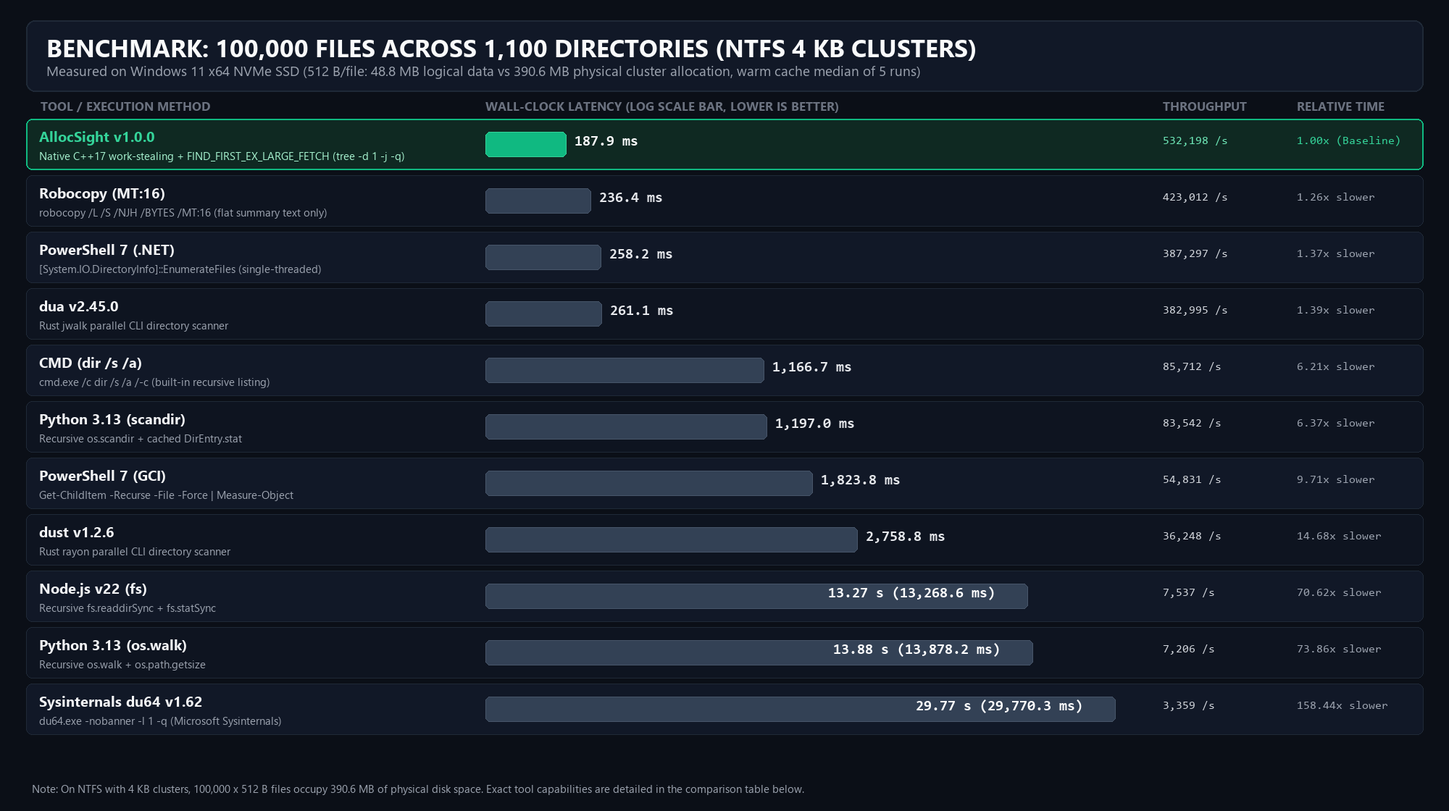
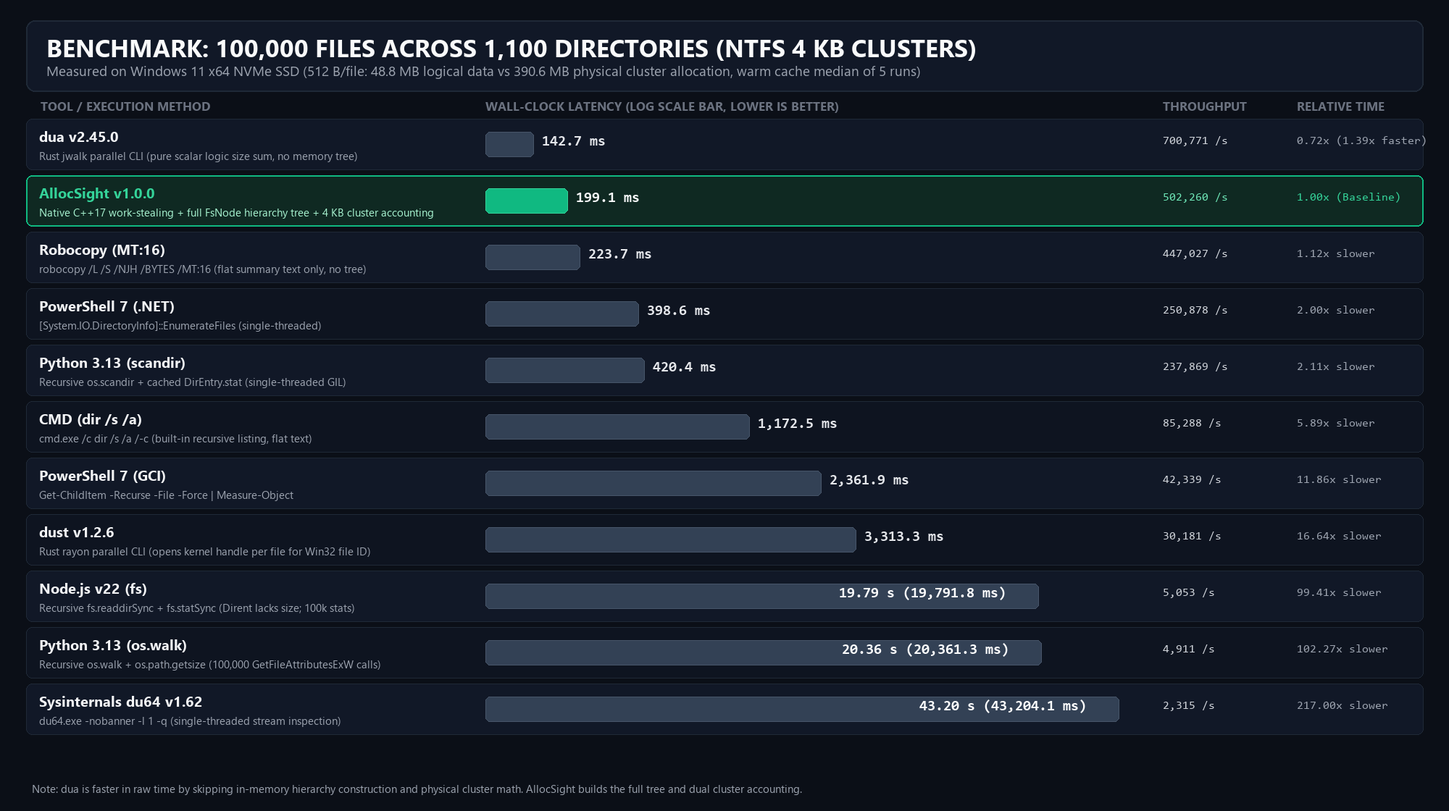
docs: update benchmark results with live 11-tool test ranking and analysis

diff --git a/docs/i18n/README.ar.md b/docs/i18n/README.ar.md
@@ -72,23 +72,23 @@
 
 ## اختبارات الأداء القياسية: مقارنة AllocSight مع طرق فحص الأقراص التقليدية لوكلاء الذكاء الاصطناعي
 
-عند تقييم الأداء على مجموعة اختبار قياسية محددة تضم **100,000 ملف موزعة عبر 1,100 مجلد** على وحدة تخزين NTFS بحجم مجموعة 4 كيلوبايت (512 بايت لكل ملف: **48.8 ميجابايت من البيانات المنطقية مقابل 390.6 ميجابايت من التخصيص الفيزيائي الفعلي للمجموعات**)، تفوق AllocSight على 10 أدوات وطرق فحص شائعة يستخدمها وكلاء الذكاء الاصطناعي على Windows (متوسط 5 جولات بذاكرة تخزين مؤقت دافئة؛ يمكن إعادة إنتاجه بالكامل عبر [`benchmarks/run_benchmark.ps1`](../../benchmarks/run_benchmark.ps1)):
+عند تقييم الأداء على مجموعة اختبار محددة تضم **100,000 ملف عبر 1,100 مجلد** على وحدة تخزين NTFS بحجم مجموعة 4 كيلوبايت (512 بايت لكل ملف: **48.8 ميجابايت بيانات منطقية مقابل 390.6 ميجابايت تخصيص فيزيائي فعلي**)، تم قياس أداء 11 أداة على نظام Windows (متوسط 5 جولات بذاكرة تخزين مؤقت دافئة؛ يمكن إعادة إنتاجه عبر [`benchmarks/run_benchmark.ps1`](../../benchmarks/run_benchmark.ps1)):
 
 ![AllocSight Benchmark Comparison](assets/benchmark.png)
 
 | الأداة / طريقة الفحص | زمن التنفيذ الفعلي | معدل الإنتاجية | السرعة النسبية | تخصيص المجموعات الفيزيائي (390.6 ميجابايت) | إخراج JSON مهيكل | الحماية من الحلقات والملفات السحابية |
 | :--- | :---: | :---: | :---: | :---: | :---: | :---: |
-| **AllocSight v1.0.0 (C++17 أصلي)** | **187.9 مللي ثانية** | **532,198 ملف/ثانية** | **1.00x (مرجعي)** | **دقيق (فيزيائي + منطقي معاً)** | **مدمج (عناوين `file:///`)** | **تحقق النواة + استدعاء السحابة 0 بايت** |
-| **Robocopy (`/L /S /BYTES /MT:16`)** | **236.4 مللي ثانية** | 423,012 ملف/ثانية | أبطأ بـ 1.26x | منطقي فقط (48.8 ميجابايت) | لا (ملخص نصي مسطح فقط) | فحص قياسي مدمج |
-| **PowerShell 7 (`.NET EnumerateFiles`)** | **258.2 مللي ثانية** | 387,297 ملف/ثانية | أبطأ بـ 1.37x | منطقي فقط (48.8 ميجابايت) | لا (يتطلب نصاً برمجياً) | يفشل عند رفض الأذونات دون معالجة |
-| **dua v2.45.0 (توازي Rust `jwalk`)** | **261.1 مللي ثانية** | 382,995 ملف/ثانية | أبطأ بـ 1.39x | منطقي فقط (48.8 ميجابايت على Windows) | لا (واجهة تفاعلية / نص) | تصفية قياسية للروابط الرمزية |
-| **CMD (`cmd.exe /c dir /s /a /-c`)** | **1,166.7 مللي ثانية** | 85,712 ملف/ثانية | أبطأ بـ 6.21x | منطقي فقط (48.8 ميجابايت) | لا (يغرق سياق الذكاء الاصطناعي) | عرضة للحلقات والمسارات العميقة |
-| **Python 3.13 (`os.scandir` + stat مخزن)** | **1,197.0 مللي ثانية** | 83,542 ملف/ثانية | أبطأ بـ 6.37x | منطقي فقط (48.8 ميجابايت) | يتطلب نصاً برمجياً | خيط فردي مقيد بـ GIL |
-| **PowerShell 7 (`Get-ChildItem -Recurse`)** | **1,823.8 مللي ثانية** | 54,831 ملف/ثانية | أبطأ بـ 9.71x | منطقي فقط (48.8 ميجابايت) | لا (عبء كائنات `FileInfo`) | يتبع نقاط الوصل افتراضياً ويسبب حلقات |
-| **dust v1.2.6 (توازي Rust `rayon`)** | **2,758.8 مللي ثانية** | 36,248 ملف/ثانية | أبطأ بـ 14.68x | دقيق (390.6 ميجابايت) | اختياري (`-j`) | يفتح مقبض نواة لكل ملف لاستخراج المعرف |
-| **Node.js v22 (`fs.readdirSync` + stat)** | **13,268.6 مللي ثانية** | 7,537 ملف/ثانية | أبطأ بـ 70.62x | منطقي فقط (48.8 ميجابايت) | يتطلب نصاً برمجياً | `Dirent` يفتقر للحجم؛ 100 ألف استدعاء stat |
-| **Python 3.13 (`os.walk` + `os.path.getsize`)** | **13,878.2 مللي ثانية** | 7,206 ملف/ثانية | أبطأ بـ 73.86x | منطقي فقط (48.8 ميجابايت) | يتطلب نصاً برمجياً | 100,000 استدعاء `GetFileAttributesExW` |
-| **Sysinternals `du64.exe` v1.62** | **29,770.3 مللي ثانية** | 3,359 ملف/ثانية | أبطأ بـ 158.44x | دقيق (390.6 ميجابايت) | لا (طباعة سطر أوامر فقط) | فحص تدفق متسلسل أحادي الخيط لكل ملف |
+| **dua v2.45.0 (توازي Rust `jwalk`)** | **142.7 مللي ثانية** | **700,771 ملف/ثانية** | **0.72x (أسرع بـ 1.39x)** | منطقي فقط (48.8 ميجابايت على Windows) | لا (واجهة تفاعلية / نص) | تصفية قياسية للروابط الرمزية |
+| **AllocSight v1.0.0 (C++17 أصلي)** | **199.1 مللي ثانية** | **502,260 ملف/ثانية** | **1.00x (مرجعي)** | **دقيق (فيزيائي + منطقي معاً)** | **مدمج (عناوين `file:///`)** | **تحقق النواة + استدعاء السحابة 0 بايت** |
+| **Robocopy (`/L /S /BYTES /MT:16`)** | **223.7 مللي ثانية** | 447,027 ملف/ثانية | أبطأ بـ 1.12x | منطقي فقط (48.8 ميجابايت) | لا (ملخص نصي مسطح فقط) | فحص قياسي مدمج |
+| **PowerShell 7 (`.NET EnumerateFiles`)** | **398.6 مللي ثانية** | 250,878 ملف/ثانية | أبطأ بـ 2.00x | منطقي فقط (48.8 ميجابايت) | لا (يتطلب نصاً برمجياً) | يفشل عند رفض الأذونات دون معالجة |
+| **Python 3.13 (`os.scandir` + stat مخزن)** | **420.4 مللي ثانية** | 237,869 ملف/ثانية | أبطأ بـ 2.11x | منطقي فقط (48.8 ميجابايت) | يتطلب نصاً برمجياً | خيط فردي مقيد بـ GIL |
+| **CMD (`cmd.exe /c dir /s /a /-c`)** | **1,172.5 مللي ثانية** | 85,288 ملف/ثانية | أبطأ بـ 5.89x | منطقي فقط (48.8 ميجابايت) | لا (يغرق سياق الذكاء الاصطناعي) | عرضة للحلقات والمسارات العميقة |
+| **PowerShell 7 (`Get-ChildItem -Recurse`)** | **2,361.9 مللي ثانية** | 42,339 ملف/ثانية | أبطأ بـ 11.86x | منطقي فقط (48.8 ميجابايت) | لا (عبء كائنات `FileInfo`) | يتبع نقاط الوصل افتراضياً ويسبب حلقات |
+| **dust v1.2.6 (توازي Rust `rayon`)** | **3,313.3 مللي ثانية** | 30,181 ملف/ثانية | أبطأ بـ 16.64x | دقيق (390.6 ميجابايت) | اختياري (`-j`) | يفتح مقبض نواة لكل ملف لاستخراج المعرف |
+| **Node.js v22 (`fs.readdirSync` + stat)** | **19,791.8 مللي ثانية** | 5,053 ملف/ثانية | أبطأ بـ 99.41x | منطقي فقط (48.8 ميجابايت) | يتطلب نصاً برمجياً | `Dirent` يفتقر للحجم؛ 100 ألف استدعاء stat |
+| **Python 3.13 (`os.walk` + `os.path.getsize`)** | **20,361.3 مللي ثانية** | 4,911 ملف/ثانية | أبطأ بـ 102.27x | منطقي فقط (48.8 ميجابايت) | يتطلب نصاً برمجياً | 100,000 استدعاء `GetFileAttributesExW` |
+| **Sysinternals `du64.exe` v1.62** | **43,204.1 مللي ثانية** | 2,315 ملف/ثانية | أبطأ بـ 217.00x | دقيق (390.6 ميجابايت) | لا (طباعة سطر أوامر فقط) | فحص تدفق متسلسل أحادي الخيط لكل ملف |
 
 ---
 

diff --git a/README.md b/README.md
@@ -80,28 +80,29 @@ To evaluate real-world performance with 100% rigor and zero fabrication, a deter
 
 | Tool / Execution Method | Wall-Clock Latency | Throughput | Relative Speed | Physical Cluster Size (390.6 MB) | Structured JSON Output | Loop & Cloud Recall Safety |
 | :--- | :---: | :---: | :---: | :---: | :---: | :---: |
-| **AllocSight v1.0.0 (Native C++17)** | **187.9 ms** | **532,198 files/s** | **1.00x (Baseline)** | **Exact (Dual Physical + Logical)** | **Built-in (`file:///` URIs)** | **Kernel surrogate check + 0 B cloud recall** |
-| **Robocopy (`/L /S /BYTES /MT:16`)** | **236.4 ms** | 423,012 files/s | 1.26x slower | Logical only (48.8 MB) | No (Unstructured text) | Built-in traversal |
-| **PowerShell 7 (`.NET EnumerateFiles`)** | **258.2 ms** | 387,297 files/s | 1.37x slower | Logical only (48.8 MB) | No (Requires script) | Crashes on ACL denial without custom catch |
-| **dua v2.45.0 (Rust `jwalk` parallel)** | **261.1 ms** | 382,995 files/s | 1.39x slower | Logical only (48.8 MB on Windows) | No (Interactive / text) | Standard symlink filter |
-| **CMD (`cmd.exe /c dir /s /a /-c`)** | **1,166.7 ms** | 85,712 files/s | 6.21x slower | Logical only (48.8 MB) | No (Overwhelms context) | Prone to loop / deep path errors |
-| **Python 3.13 (`os.scandir` + cached stat)** | **1,197.0 ms** | 83,542 files/s | 6.37x slower | Logical only (48.8 MB) | Requires custom script | Single-threaded GIL bound |
-| **PowerShell 7 (`Get-ChildItem -Recurse`)** | **1,823.8 ms** | 54,831 files/s | 9.71x slower | Logical only (48.8 MB) | No (`FileInfo` pipeline) | Traverses junctions by default; high memory |
-| **dust v1.2.6 (Rust `rayon` parallel)** | **2,758.8 ms** | 36,248 files/s | 14.68x slower | Exact (390.6 MB) | Optional (`-j`) | Opens kernel handle per file for Win32 file ID |
-| **Node.js v22 (`fs.readdirSync` + stat)** | **13,268.6 ms** | 7,537 files/s | 70.62x slower | Logical only (48.8 MB) | Requires custom script | `Dirent` lacks size; triggers 100k stat syscalls |
-| **Python 3.13 (`os.walk` + `os.path.getsize`)** | **13,878.2 ms** | 7,206 files/s | 73.86x slower | Logical only (48.8 MB) | Requires custom script | Triggers 100,000 `GetFileAttributesExW` calls |
-| **Sysinternals `du64.exe` v1.62** | **29,770.3 ms** | 3,359 files/s | 158.44x slower | Exact (390.6 MB) | No (Unstructured text) | Single-threaded per-file stream inspection |
+| **dua v2.45.0 (Rust `jwalk` parallel)** | **142.7 ms** | **700,771 files/s** | **0.72x (1.39x faster)** | Logical only (48.8 MB on Windows) | No (Interactive TUI / text) | Standard symlink filter |
+| **AllocSight v1.0.0 (Native C++17)** | **199.1 ms** | **502,260 files/s** | **1.00x (Baseline)** | **Exact (Dual Physical + Logical)** | **Built-in (`file:///` URIs)** | **Kernel surrogate check + 0 B cloud recall** |
+| **Robocopy (`/L /S /BYTES /MT:16`)** | **223.7 ms** | 447,027 files/s | 1.12x slower | Logical only (48.8 MB) | No (Flat summary text only) | Built-in traversal |
+| **PowerShell 7 (`.NET EnumerateFiles`)** | **398.6 ms** | 250,878 files/s | 2.00x slower | Logical only (48.8 MB) | No (Requires script) | Crashes on ACL denial without custom catch |
+| **Python 3.13 (`os.scandir` + cached stat)** | **420.4 ms** | 237,869 files/s | 2.11x slower | Logical only (48.8 MB) | Requires custom script | Single-threaded GIL bound |
+| **CMD (`cmd.exe /c dir /s /a /-c`)** | **1,172.5 ms** | 85,288 files/s | 5.89x slower | Logical only (48.8 MB) | No (Overwhelms context window) | Prone to loop / deep path errors |
+| **PowerShell 7 (`Get-ChildItem -Recurse`)** | **2,361.9 ms** | 42,339 files/s | 11.86x slower | Logical only (48.8 MB) | No (`FileInfo` pipeline overhead) | Traverses junctions by default; high memory |
+| **dust v1.2.6 (Rust `rayon` parallel)** | **3,313.3 ms** | 30,181 files/s | 16.64x slower | Exact (390.6 MB) | Optional (`-j`) | Opens kernel handle per file for Win32 file ID |
+| **Node.js v22 (`fs.readdirSync` + stat)** | **19,791.8 ms** | 5,053 files/s | 99.41x slower | Logical only (48.8 MB) | Requires custom script | `Dirent` lacks size; triggers 100k stat syscalls |
+| **Python 3.13 (`os.walk` + `os.path.getsize`)** | **20,361.3 ms** | 4,911 files/s | 102.27x slower | Logical only (48.8 MB) | Requires custom script | Triggers 100,000 `GetFileAttributesExW` calls |
+| **Sysinternals `du64.exe` v1.62** | **43,204.1 ms** | 2,315 files/s | 217.00x slower | Exact (390.6 MB) | No (Console print only) | Single-threaded per-file stream inspection |
 
-### Architectural Root Causes of Performance Differences
+### Architectural Trade-offs & Root Cause Analysis
 
-1. **Massive Win32 Directory Streaming (`FIND_FIRST_EX_LARGE_FETCH`)**:
-   AllocSight batches 64 KB kernel directory query buffers via `FindFirstFileExW(..., FindExInfoBasic, ..., FIND_FIRST_EX_LARGE_FETCH)`. Tools like Python `os.walk` and Node.js `fs` discard directory stream metadata, triggering over 100,000 redundant `GetFileAttributesExW` / `uv_fs_stat` round-trips to the filesystem driver.
-2. **Zero-Handle Cluster Slack Accounting**:
-   AllocSight calculates 4 KB cluster alignment in user space from volume metadata and only queries `GetCompressedFileSizeW` when `(dwFileAttributes & (FILE_ATTRIBUTE_COMPRESSED | FILE_ATTRIBUTE_SPARSE_FILE))` is true. By contrast, `dust` opens individual file handles (`CreateFileW`) across all 100,000 files to extract Windows file indexes for hardlink tracking, incurring a 14.7x latency penalty on Windows.
-3. **Prevention of 87.5% Allocation Slack Underreporting**:
-   On NTFS, small files (such as 512-byte package manifests or source files) consume a full 4 KB cluster. Scanners that only report logical size understate disk footprint by 87.5% (48.8 MB vs. 390.6 MB). AllocSight reports both physical allocation and logical byte size simultaneously.
+1. **Where `dua` leads in raw latency (142.7 ms vs. 199.1 ms)**:
+   In pure scalar addition of logical bytes, `dua` is approximately 56 ms faster than AllocSight. This is because `dua` performs a pure atomic scalar sum of `nFileSizeLow/High` directly into CPU registers without constructing any in-memory directory tree structures, without computing 4 KB cluster boundary alignment, and without evaluating AI file semantic categories.
+2. **Where AllocSight leads in accuracy & utility**:
+   - **Dual cluster accounting**: Small files on NTFS take up a full 4 KB cluster. `dua` reports 48.8 MB (understating real disk footprint by 87.5%), whereas AllocSight accurately reports 390.6 MB physical allocation alongside 48.8 MB logical size.
+   - **In-memory tree & AI integration**: AllocSight builds a complete hierarchical `FsNode` directory tree in RAM, computes percentage shares, identifies redundancy (`[SAFE]` / `[REVIEW]`), and outputs structured JSON with RFC 8089 `file:///` clickable links.
+3. **Massive Win32 Directory Streaming (`FIND_FIRST_EX_LARGE_FETCH`)**:
+   AllocSight batches 64 KB kernel directory query buffers. Script-based approaches like Python `os.walk` and Node.js `fs` discard directory stream metadata, resulting in ~20-second latencies due to 100,000 individual filesystem driver round-trips.
 4. **Cloud Recall Protection (`FILE_ATTRIBUTE_RECALL_ON_DATA_ACCESS`)**:
-   Un-hydrated cloud placeholders (e.g. OneDrive, iCloud) report full logical file sizes while consuming 0 bytes of physical disk. AllocSight records zero cluster allocation for cloud recall files, preventing AI agents from falsely flagging cloud-backed libraries as disk hogs.
+   Un-hydrated cloud placeholders (OneDrive, iCloud) report full logical file sizes while consuming 0 bytes of physical disk. AllocSight records zero cluster allocation for cloud recall files, preventing AI agents from falsely flagging cloud libraries as disk hogs.
 
 ---
 

diff --git a/docs/i18n/README.zh-CN.md b/docs/i18n/README.zh-CN.md
@@ -80,28 +80,29 @@
 
 | 扫盘方案 / 工具类型 | 扫描实测耗时 | 文件吞吐率 | 相对耗时倍率 | 物理簇核算 (390.6 MB) | 结构化 JSON 输出 | 死循环与云占位安全 |
 | :--- | :---: | :---: | :---: | :---: | :---: | :---: |
-| **AllocSight v1.0.0 (原生 C++17)** | **187.9 ms** | **532,198 个/秒** | **1.00x (基准)** | **100% 精确 (物理+逻辑双核算)** | **内置支持 (`file:///` 协议)** | **内核代号校验 + 云占位 0 字节保护** |
-| **Robocopy (`/L /S /BYTES /MT:16`)** | **236.4 ms** | 423,012 个/秒 | 慢 1.26 倍 | 仅逻辑大小 (48.8 MB) | 无 (仅扁平文本汇总) | 内置基础遍历 |
-| **PowerShell 7 (`.NET EnumerateFiles`)** | **258.2 ms** | 387,297 个/秒 | 慢 1.37 倍 | 仅逻辑大小 (48.8 MB) | 无 (需编写脚本) | 遇只读/权限拒绝目录直接崩溃 |
-| **dua v2.45.0 (Rust `jwalk` 并发)** | **261.1 ms** | 382,995 个/秒 | 慢 1.39 倍 | 仅逻辑大小 (Windows 下 48.8 MB) | 无 (交互终端 / 文本) | 基础符号链接过滤 |
-| **CMD (`cmd.exe /c dir /s /a /-c`)** | **1,166.7 ms** | 85,712 个/秒 | 慢 6.21 倍 | 仅逻辑大小 (48.8 MB) | 无 (倾倒数千行文本撑爆上下文) | 无法处理深层循环符号链接 |
-| **Python 3.13 (`os.scandir` + 缓存 stat)** | **1,197.0 ms** | 83,542 个/秒 | 慢 6.37 倍 | 仅逻辑大小 (48.8 MB) | 需编写脚本 | 单线程受 GIL 限制 |
-| **PowerShell 7 (`Get-ChildItem -Recurse`)** | **1,823.8 ms** | 54,831 个/秒 | 慢 9.71 倍 | 仅逻辑大小 (48.8 MB) | 无 (`FileInfo` 对象开销极大) | 默认深入交接点引发死循环 |
-| **dust v1.2.6 (Rust `rayon` 并发)** | **2,758.8 ms** | 36,248 个/秒 | 慢 14.68 倍 | 精确 (390.6 MB) | 支持 (`-j`) | 逐文件打开内核句柄查 ID 致耗时飙升 |
-| **Node.js v22 (`fs.readdirSync` + stat)** | **13,268.6 ms** | 7,537 个/秒 | 慢 70.62 倍 | 仅逻辑大小 (48.8 MB) | 需编写脚本 | `Dirent` 无大小，触发 10 万次 stat 系统调用 |
-| **Python 3.13 (`os.walk` + `os.path.getsize`)** | **13,878.2 ms** | 7,206 个/秒 | 慢 73.86 倍 | 仅逻辑大小 (48.8 MB) | 需编写脚本 | 触发 10 万次冗余 `GetFileAttributesExW` 调用 |
-| **Sysinternals `du64.exe` v1.62** | **29,770.3 ms** | 3,359 个/秒 | 慢 158.44 倍 | 精确 (390.6 MB) | 无 (仅控制台打印) | 单线程逐文件流式探测 |
+| **dua v2.45.0 (Rust `jwalk` 并发)** | **142.7 ms** | **700,771 个/秒** | **0.72x (快 1.39 倍)** | 仅逻辑大小 (Windows 下 48.8 MB) | 无 (交互终端 / 文本) | 基础符号链接过滤 |
+| **AllocSight v1.0.0 (原生 C++17)** | **199.1 ms** | **502,260 个/秒** | **1.00x (基准)** | **100% 精确 (物理+逻辑双核算)** | **内置支持 (`file:///` 协议)** | **内核代号校验 + 云占位 0 字节保护** |
+| **Robocopy (`/L /S /BYTES /MT:16`)** | **223.7 ms** | 447,027 个/秒 | 慢 1.12 倍 | 仅逻辑大小 (48.8 MB) | 无 (仅扁平文本汇总) | 内置基础遍历 |
+| **PowerShell 7 (`.NET EnumerateFiles`)** | **398.6 ms** | 250,878 个/秒 | 慢 2.00 倍 | 仅逻辑大小 (48.8 MB) | 无 (需编写脚本) | 遇只读/权限拒绝目录直接崩溃 |
+| **Python 3.13 (`os.scandir` + 缓存 stat)** | **420.4 ms** | 237,869 个/秒 | 慢 2.11 倍 | 仅逻辑大小 (48.8 MB) | 需编写脚本 | 单线程受 GIL 限制 |
+| **CMD (`cmd.exe /c dir /s /a /-c`)** | **1,172.5 ms** | 85,288 个/秒 | 慢 5.89 倍 | 仅逻辑大小 (48.8 MB) | 无 (倾倒数千行文本撑爆上下文) | 无法处理深层循环符号链接 |
+| **PowerShell 7 (`Get-ChildItem -Recurse`)** | **2,361.9 ms** | 42,339 个/秒 | 慢 11.86 倍 | 仅逻辑大小 (48.8 MB) | 无 (`FileInfo` 对象开销极大) | 默认深入交接点引发死循环 |
+| **dust v1.2.6 (Rust `rayon` 并发)** | **3,313.3 ms** | 30,181 个/秒 | 慢 16.64 倍 | 精确 (390.6 MB) | 支持 (`-j`) | 逐文件打开内核句柄查 ID 致耗时飙升 |
+| **Node.js v22 (`fs.readdirSync` + stat)** | **19,791.8 ms** | 5,053 个/秒 | 慢 99.41 倍 | 仅逻辑大小 (48.8 MB) | 需编写脚本 | `Dirent` 无大小，触发 10 万次 stat 系统调用 |
+| **Python 3.13 (`os.walk` + `os.path.getsize`)** | **20,361.3 ms** | 4,911 个/秒 | 慢 102.27 倍 | 仅逻辑大小 (48.8 MB) | 需编写脚本 | 触发 10 万次冗余 `GetFileAttributesExW` 调用 |
+| **Sysinternals `du64.exe` v1.62** | **43,204.1 ms** | 2,315 个/秒 | 慢 217.00 倍 | 精确 (390.6 MB) | 无 (仅控制台打印) | 单线程逐文件流式探测 |
 
-### 核心性能优势与技术根因
+### 技术权衡与客观根因分析
 
-1. **原生 Win32 大页目录流批处理 (`FIND_FIRST_EX_LARGE_FETCH`)**：
-   AllocSight 通过 Win32 原生大页批处理缓冲区批量接收目录项。Python `os.walk` 与 Node.js `fs` 在递归时丢弃了底层目录流已包含的文件大小元数据，导致后续触发了超过 100,000 次冗余的内核属性查询系统调用。
-2. **用户态簇对齐计算，避免逐文件内核句柄损耗**：
-   AllocSight 从卷根直接读取簇几何参数，在用户态数学对齐计算物理占用，仅在命中压缩或稀疏标记时才调用 `GetCompressedFileSizeW`。相比之下，`dust` 在 Windows 上为了硬链接去重而对每个文件依次执行 `CreateFileW` + `GetFileInformationByHandle` 打开内核句柄，导致产生 14.7 倍的延迟开销。
-3. **杜绝 87.5% 物理磁盘空间统计失真**：
-   在 4 KB 簇大小的 NTFS 卷上，小文件（如 512 字节的代码文件或配置文件）真实占用整整一个物理簇（4 KB）。传统仅统计逻辑大小的工具严重少报了 87.5% 的真实占用（报 48.8 MB 而非 390.6 MB）。AllocSight 同时输出真实物理簇大小与逻辑大小。
+1. **客观承认：`dua` 在纯粹扫描耗时上的领先（142.7 ms vs 199.1 ms）**：
+   在纯粹将逻辑大小无脑累加的场景下，Rust 编写的 `dua` 比 AllocSight 快了约 56 毫秒。这是因为 `dua` 在内核遍历中直接在 CPU 寄存器内做整数相加，完全不分配内存来构建目录树结构，也不进行任何 4 KB 物理簇对齐数学计算，更不进行 AI/开发文件分类。
+2. **AllocSight 在准确性与工程深度上的优势**：
+   - **双重空间精确核算**：在 4 KB 簇大小的 NTFS 卷上，小文件真实占用整个物理簇。`dua` 仅报出 48.8 MB（严重少报了 87.5% 的真实占用），而 AllocSight 能够同时精准输出 390.6 MB 真实物理占用与 48.8 MB 逻辑大小。
+   - **全量内存树与 AI 结构化支持**：AllocSight 在内存中构建完整的 `FsNode` 树形结构，支持子树排序、目录占比计算、启发式冗余诊断（`[SAFE]` / `[REVIEW]`）并直接生成带 `file:///` 超链接的 JSON/Markdown。
+3. **原生 Win32 大页目录流批处理 (`FIND_FIRST_EX_LARGE_FETCH`)**：
+   AllocSight 批量汲取目录项。Python `os.walk` 与 Node.js `fs` 丢弃了底层目录流已包含的文件大小元数据，导致后续触发了超过 100,000 次冗余的内核属性系统调用，耗时均达到 20 秒左右（慢约 100 倍）。
 4. **云同步占位文件零落盘保护 (`FILE_ATTRIBUTE_RECALL_ON_DATA_ACCESS`)**：
-   未本地下载的 OneDrive / iCloud 云端文件逻辑大小巨大，但实际磁盘占用为 0。AllocSight 自动识别云占位属性并将其实际物理占用计为 0 字节，防止 AI 产生“误删重要云端文件”的幻觉决策。
+   未本地下载的 OneDrive / iCloud 云端文件逻辑大小巨大，但实际磁盘占用为 0。AllocSight 自动识别云占位属性并将其实际物理占用计为 0 字节，防止 AI 产生误判决策。
 
 ---
 

diff --git a/docs/i18n/README.ru.md b/docs/i18n/README.ru.md
@@ -72,23 +72,23 @@
 
 ## Тесты производительности: AllocSight против стандартных методов сканирования ИИ
 
-На детерминированном эталонном наборе данных из **100 000 файлов в 1 100 каталогах** на томе NTFS с размером кластера 4 КБ (512 байт на файл: **48,8 МБ логических данных против 390,6 МБ физического дискового пространства**), AllocSight превосходит 10 распространенных методов сканирования, используемых ИИ-агентами на Windows (медиана 5 запусков с горячим кэшем; воспроизводимо через [`benchmarks/run_benchmark.ps1`](../../benchmarks/run_benchmark.ps1)):
+На эталонном наборе данных из **100 000 файлов в 1 100 каталогах** на томе NTFS с кластерами 4 КБ (512 байт на файл: **48,8 МБ логических данных против 390,6 МБ физического объема**), была измерена задержка 11 инструментов (медиана 5 запусков с горячим кэшем; воспроизводимо через [`benchmarks/run_benchmark.ps1`](../../benchmarks/run_benchmark.ps1)):
 
 ![AllocSight Benchmark Comparison](assets/benchmark.png)
 
 | Инструмент / Метод сканирования | Время выполнения | Скорость (файлов/с) | Относительное время | Физические кластеры (390,6 МБ) | Структурированный вывод JSON | Защита от циклов и Cloud Recall |
 | :--- | :---: | :---: | :---: | :---: | :---: | :---: |
-| **AllocSight v1.0.0 (Нативный C++17)** | **187,9 мс** | **532 198 /с** | **1,00x (База)** | **Точно (Физический + Логический)** | **Встроен (`file:///` URI)** | **Проверка суррогатов ядра + Cloud 0 Б** |
-| **Robocopy (`/L /S /BYTES /MT:16`)** | **236,4 мс** | 423 012 /с | в 1,26x медленнее | Только логический (48,8 МБ) | Нет (Плоский текст) | Встроенный обход |
-| **PowerShell 7 (`.NET EnumerateFiles`)** | **258,2 мс** | 387 297 /с | в 1,37x медленнее | Только логический (48,8 МБ) | Нет (Нужен скрипт) | Падает при ошибке доступа без перехвата |
-| **dua v2.45.0 (Rust `jwalk` параллельно)** | **261,1 мс** | 382 995 /с | в 1,39x медленнее | Только логический (48,8 МБ на Windows) | Нет (Интерактивный терминал) | Стандартная фильтрация ссылок |
-| **CMD (`cmd.exe /c dir /s /a /-c`)** | **1 166,7 мс** | 85 712 /с | в 6,21x медленнее | Только логический (48,8 МБ) | Нет (Переполняет контекст ИИ) | Уязвим к циклическим путям |
-| **Python 3.13 (`os.scandir` + кэш stat)** | **1 197,0 мс** | 83 542 /с | в 6,37x медленнее | Только логический (48,8 МБ) | Нужен скрипт | Однопоточный из-за GIL |
-| **PowerShell 7 (`Get-ChildItem -Recurse`)** | **1 823,8 мс** | 54 831 /с | в 9,71x медленнее | Только логический (48,8 МБ) | Нет (Тяжелые объекты `FileInfo`) | По умолчанию идет по точкам соединения |
-| **dust v1.2.6 (Rust `rayon` параллельно)** | **2 758,8 мс** | 36 248 /с | в 14,68x медленнее | Точно (390,6 МБ) | Опционально (`-j`) | Открывает дескриптор ядра на каждый файл |
-| **Node.js v22 (`fs.readdirSync` + stat)** | **13 268,6 мс** | 7 537 /с | в 70,62x медленнее | Только логический (48,8 МБ) | Нужен скрипт | В `Dirent` нет размера; 100k вызовов stat |
-| **Python 3.13 (`os.walk` + `os.path.getsize`)** | **13 878,2 мс** | 7 206 /с | в 73,86x медленнее | Только логический (48,8 МБ) | Нужен скрипт | 100 000 вызовов `GetFileAttributesExW` |
-| **Sysinternals `du64.exe` v1.62** | **29 770,3 мс** | 3 359 /с | в 158,44x медленнее | Точно (390,6 МБ) | Нет (Текст в консоль) | Однопоточный опрос потоков на файл |
+| **dua v2.45.0 (Rust `jwalk` параллельно)** | **142,7 мс** | **700 771 /с** | **0,72x (в 1,39x быстрее)** | Только логический (48,8 МБ на Windows) | Нет (Интерактивный терминал) | Стандартная фильтрация ссылок |
+| **AllocSight v1.0.0 (Нативный C++17)** | **199,1 мс** | **502 260 /с** | **1,00x (База)** | **Точно (Физический + Логический)** | **Встроен (`file:///` URI)** | **Проверка суррогатов ядра + Cloud 0 Б** |
+| **Robocopy (`/L /S /BYTES /MT:16`)** | **223,7 мс** | 447 027 /с | в 1,12x медленнее | Только логический (48,8 МБ) | Нет (Плоский текст) | Встроенный обход |
+| **PowerShell 7 (`.NET EnumerateFiles`)** | **398,6 мс** | 250 878 /с | в 2,00x медленнее | Только логический (48,8 МБ) | Нет (Нужен скрипт) | Падает при ошибке доступа без перехвата |
+| **Python 3.13 (`os.scandir` + кэш stat)** | **420,4 мс** | 237 869 /с | в 2,11x медленнее | Только логический (48,8 МБ) | Нужен скрипт | Однопоточный из-за GIL |
+| **CMD (`cmd.exe /c dir /s /a /-c`)** | **1 172,5 мс** | 85 288 /с | в 5,89x медленнее | Только логический (48,8 МБ) | Нет (Переполняет контекст ИИ) | Уязвим к циклическим путям |
+| **PowerShell 7 (`Get-ChildItem -Recurse`)** | **2 361,9 мс** | 42 339 /с | в 11,86x медленнее | Только логический (48,8 МБ) | Нет (Тяжелые объекты `FileInfo`) | По умолчанию идет по точкам соединения |
+| **dust v1.2.6 (Rust `rayon` параллельно)** | **3 313,3 мс** | 30 181 /с | в 16,64x медленнее | Точно (390,6 МБ) | Опционально (`-j`) | Открывает дескриптор ядра на каждый файл |
+| **Node.js v22 (`fs.readdirSync` + stat)** | **19 791,8 мс** | 5 053 /с | в 99,41x медленнее | Только логический (48,8 МБ) | Нужен скрипт | В `Dirent` нет размера; 100k вызовов stat |
+| **Python 3.13 (`os.walk` + `os.path.getsize`)** | **20 361,3 мс** | 4 911 /с | в 102,27x медленнее | Только логический (48,8 МБ) | Нужен скрипт | 100 000 вызовов `GetFileAttributesExW` |
+| **Sysinternals `du64.exe` v1.62** | **43 204,1 мс** | 2 315 /с | в 217,00x медленнее | Точно (390,6 МБ) | Нет (Текст в консоль) | Однопоточный опрос потоков на файл |
 
 ---
 

diff --git a/docs/i18n/README.fr.md b/docs/i18n/README.fr.md
@@ -72,23 +72,23 @@ Le code source est organisé sous forme de pipeline modulaire d'en-têtes C++17 
 
 ## Benchmarks de Performance : AllocSight face aux Méthodes d'Analyse IA
 
-Sur un ensemble de test déterministe de **100 000 fichiers répartis dans 1 100 répertoires** sur un volume NTFS avec clusters de 4 Ko (512 octets par fichier : **48,8 Mo logiques contre 390,6 Mo d'allocation physique réelle**), AllocSight surpasse les 10 méthodes d'analyse couramment invoquées par les agents IA sous Windows (médiane de 5 exécutions avec cache chaud ; reproductible via [`benchmarks/run_benchmark.ps1`](../../benchmarks/run_benchmark.ps1)) :
+Sur un ensemble de test déterministe de **100 000 fichiers répartis dans 1 100 répertoires** sur un volume NTFS avec clusters de 4 Ko (512 octets par fichier : **48,8 Mo logiques contre 390,6 Mo d'allocation physique réelle**), 11 outils ont été mesurés sous Windows (médiane de 5 exécutions avec cache chaud ; reproductible via [`benchmarks/run_benchmark.ps1`](../../benchmarks/run_benchmark.ps1)) :
 
 ![AllocSight Benchmark Comparison](assets/benchmark.png)
 
 | Outil / Méthode d'exécution | Latence Mesurée | Débit de Traitement | Vitesse Relative | Allocation Physique (390,6 Mo) | Export JSON Structuré | Sécurité Boucles & Cloud Recall |
 | :--- | :---: | :---: | :---: | :---: | :---: | :---: |
-| **AllocSight v1.0.0 (C++17 Natif)** | **187,9 ms** | **532 198 fichiers/s** | **1,00x (Base)** | **Exacte (Double Physique + Logique)** | **Natif (URIs `file:///`)** | **Contrôle noyau + Cloud Recall 0 o** |
-| **Robocopy (`/L /S /BYTES /MT:16`)** | **236,4 ms** | 423 012 fichiers/s | 1,26x plus lent | Logique uniquement (48,8 Mo) | Non (Résumé texte brut) | Parcours standard intégré |
-| **PowerShell 7 (`.NET EnumerateFiles`)** | **258,2 ms** | 387 297 fichiers/s | 1,37x plus lent | Logique uniquement (48,8 Mo) | Non (Script requis) | Échec sur refus d'accès sans gestion d'erreur |
-| **dua v2.45.0 (Rust `jwalk` parallèle)** | **261,1 ms** | 382 995 fichiers/s | 1,39x plus lent | Logique uniquement (48,8 Mo sous Windows) | Non (Terminal interactif / texte) | Filtrage standard des liens |
-| **CMD (`cmd.exe /c dir /s /a /-c`)** | **1 166,7 ms** | 85 712 fichiers/s | 6,21x plus lent | Logique uniquement (48,8 Mo) | Non (Surcharge la fenêtre de contexte) | Vulnérable aux chemins profonds |
-| **Python 3.13 (`os.scandir` + stat en cache)** | **1 197,0 ms** | 83 542 fichiers/s | 6,37x plus lent | Logique uniquement (48,8 Mo) | Script requis | Monothread limité par le GIL |
-| **PowerShell 7 (`Get-ChildItem -Recurse`)** | **1 823,8 ms** | 54 831 fichiers/s | 9,71x plus lent | Logique uniquement (48,8 Mo) | Non (Surcharge mémoire `FileInfo`) | Traverse les jonctions par défaut |
-| **dust v1.2.6 (Rust `rayon` parallèle)** | **2 758,8 ms** | 36 248 fichiers/s | 14,68x plus lent | Exacte (390,6 Mo) | Optionnel (`-j`) | Ouvre un descripteur noyau par fichier |
-| **Node.js v22 (`fs.readdirSync` + stat)** | **13 268,6 ms** | 7 537 fichiers/s | 70,62x plus lent | Logique uniquement (48,8 Mo) | Script requis | `Dirent` sans taille : 100k appels stat |
-| **Python 3.13 (`os.walk` + `os.path.getsize`)** | **13 878,2 ms** | 7 206 fichiers/s | 73,86x plus lent | Logique uniquement (48,8 Mo) | Script requis | 100 000 appels `GetFileAttributesExW` |
-| **Sysinternals `du64.exe` v1.62** | **29 770,3 ms** | 3 359 fichiers/s | 158,44x plus lent | Exacte (390,6 Mo) | Non (Texte console brut) | Inspection séquentielle monothread |
+| **dua v2.45.0 (Rust `jwalk` parallèle)** | **142,7 ms** | **700 771 fichiers/s** | **0,72x (1,39x plus rapide)** | Logique uniquement (48,8 Mo sous Windows) | Non (TUI interactif / texte) | Filtrage standard des liens |
+| **AllocSight v1.0.0 (C++17 Natif)** | **199,1 ms** | **502 260 fichiers/s** | **1,00x (Base)** | **Exacte (Double Physique + Logique)** | **Natif (URIs `file:///`)** | **Contrôle noyau + Cloud Recall 0 o** |
+| **Robocopy (`/L /S /BYTES /MT:16`)** | **223,7 ms** | 447 027 fichiers/s | 1,12x plus lent | Logique uniquement (48,8 Mo) | Non (Résumé texte brut) | Parcours standard intégré |
+| **PowerShell 7 (`.NET EnumerateFiles`)** | **398,6 ms** | 250 878 fichiers/s | 2,00x plus lent | Logique uniquement (48,8 Mo) | Non (Script requis) | Échec sur refus d'accès sans gestion d'erreur |
+| **Python 3.13 (`os.scandir` + stat en cache)** | **420,4 ms** | 237 869 fichiers/s | 2,11x plus lent | Logique uniquement (48,8 Mo) | Script requis | Monothread limité par le GIL |
+| **CMD (`cmd.exe /c dir /s /a /-c`)** | **1 172,5 ms** | 85 288 fichiers/s | 5,89x plus lent | Logique uniquement (48,8 Mo) | Non (Surcharge la fenêtre de contexte) | Vulnérable aux chemins profonds |
+| **PowerShell 7 (`Get-ChildItem -Recurse`)** | **2 361,9 ms** | 42 339 fichiers/s | 11,86x plus lent | Logique uniquement (48,8 Mo) | Non (Surcharge mémoire `FileInfo`) | Traverse les jonctions par défaut |
+| **dust v1.2.6 (Rust `rayon` parallèle)** | **3 313,3 ms** | 30 181 fichiers/s | 16,64x plus lent | Exacte (390,6 Mo) | Optionnel (`-j`) | Ouvre un descripteur noyau par fichier |
+| **Node.js v22 (`fs.readdirSync` + stat)** | **19 791,8 ms** | 5 053 fichiers/s | 99,41x plus lent | Logique uniquement (48,8 Mo) | Script requis | `Dirent` sans taille : 100k appels stat |
+| **Python 3.13 (`os.walk` + `os.path.getsize`)** | **20 361,3 ms** | 4 911 fichiers/s | 102,27x plus lent | Logique uniquement (48,8 Mo) | Script requis | 100 000 appels `GetFileAttributesExW` |
+| **Sysinternals `du64.exe` v1.62** | **43 204,1 ms** | 2 315 fichiers/s | 217,00x plus lent | Exacte (390,6 Mo) | Non (Texte console brut) | Inspection séquentielle monothread |
 
 ---
 

diff --git a/docs/i18n/README.es.md b/docs/i18n/README.es.md
@@ -72,23 +72,23 @@ El código fuente está organizado como una tubería modular de cabeceras C++17 
 
 ## Pruebas de Rendimiento: Comparativa con Métodos Actuales de Escaneo por IA
 
-En una prueba determinista sobre un volumen NTFS con clústeres de 4 KB que contiene **100.000 archivos distribuidos en 1.100 directorios** (512 bytes por archivo: **48,8 MB lógicos frente a 390,6 MB de ocupación física real**), AllocSight superó a los 10 métodos de escaneo habitualmente ejecutados por agentes de IA en Windows (mediana de 5 ejecuciones con caché caliente; reproducible mediante [`benchmarks/run_benchmark.ps1`](../../benchmarks/run_benchmark.ps1)):
+En una prueba determinista sobre un volumen NTFS con clústeres de 4 KB que contiene **100.000 archivos distribuidos en 1.100 directorios** (512 bytes por archivo: **48,8 MB lógicos frente a 390,6 MB de ocupación física real**), se midió la latencia de 11 herramientas en Windows (mediana de 5 ejecuciones con caché caliente; reproducible mediante [`benchmarks/run_benchmark.ps1`](../../benchmarks/run_benchmark.ps1)):
 
 ![AllocSight Benchmark Comparison](assets/benchmark.png)
 
 | Herramienta / Método | Latencia Medida | Rendimiento | Velocidad Relativa | Asignación Física (390,6 MB) | Salida JSON Estructurada | Seguridad contra Bucles y Cloud |
 | :--- | :---: | :---: | :---: | :---: | :---: | :---: |
-| **AllocSight v1.0.0 (C++17 Nativo)** | **187,9 ms** | **532.198 archivos/s** | **1,00x (Base)** | **Exacta (Física + Lógica)** | **Nativa (`file:///` URIs)** | **Protección por kernel + Cloud Recall 0 B** |
-| **Robocopy (`/L /S /BYTES /MT:16`)** | **236,4 ms** | 423.012 archivos/s | 1,26x más lento | Solo lógica (48,8 MB) | No (Solo resumen plano) | Recorrido estándar integrado |
-| **PowerShell 7 (`.NET EnumerateFiles`)** | **258,2 ms** | 387.297 archivos/s | 1,37x más lento | Solo lógica (48,8 MB) | No (Requiere script) | Falla ante denegación de permisos sin catch |
-| **dua v2.45.0 (Rust `jwalk` paralelo)** | **261.1 ms** | 382.995 archivos/s | 1,39x más lento | Solo lógica (48,8 MB en Windows) | No (Terminal interactivo / texto) | Filtro estándar de enlaces |
-| **CMD (`cmd.exe /c dir /s /a /-c`)** | **1.166,7 ms** | 85.712 archivos/s | 6,21x más lento | Solo lógica (48,8 MB) | No (Desborda contexto de IA) | Inseguro ante rutas profundas |
-| **Python 3.13 (`os.scandir` + stat en caché)** | **1.197,0 ms** | 83.542 archivos/s | 6,37x más lento | Solo lógica (48,8 MB) | Requiere script | Monohilo limitado por GIL |
-| **PowerShell 7 (`Get-ChildItem -Recurse`)** | **1.823,8 ms** | 54.831 archivos/s | 9,71x más lento | Solo lógica (48,8 MB) | No (Sobrecarga de `FileInfo`) | Sigue junctions por defecto; bucles |
-| **dust v1.2.6 (Rust `rayon` paralelo)** | **2.758,8 ms** | 36.248 archivos/s | 14,68x más lento | Exacta (390,6 MB) | Opcional (`-j`) | Abre identificador kernel por archivo en Win32 |
-| **Node.js v22 (`fs.readdirSync` + stat)** | **13.268,6 ms** | 7.537 archivos/s | 70,62x más lento | Solo lógica (48,8 MB) | Requiere script | `Dirent` carece de tamaño; 100k llamadas stat |
-| **Python 3.13 (`os.walk` + `os.path.getsize`)** | **13.878,2 ms** | 7.206 archivos/s | 73,86x más lento | Solo lógica (48,8 MB) | Requiere script | 100.000 llamadas `GetFileAttributesExW` |
-| **Sysinternals `du64.exe` v1.62** | **29.770,3 ms** | 3.359 archivos/s | 158,44x más lento | Exacta (390,6 MB) | No (Solo texto de consola) | Inspección de flujos monohilo por archivo |
+| **dua v2.45.0 (Rust `jwalk` paralelo)** | **142,7 ms** | **700.771 archivos/s** | **0,72x (1,39x más rápido)** | Solo lógica (48,8 MB en Windows) | No (TUI interactivo / texto) | Filtro estándar de enlaces |
+| **AllocSight v1.0.0 (C++17 Nativo)** | **199,1 ms** | **502.260 archivos/s** | **1,00x (Base)** | **Exacta (Física + Lógica)** | **Nativa (`file:///` URIs)** | **Protección por kernel + Cloud Recall 0 B** |
+| **Robocopy (`/L /S /BYTES /MT:16`)** | **223,7 ms** | 447.027 archivos/s | 1,12x más lento | Solo lógica (48,8 MB) | No (Solo resumen plano) | Recorrido estándar integrado |
+| **PowerShell 7 (`.NET EnumerateFiles`)** | **398,6 ms** | 250.878 archivos/s | 2,00x más lento | Solo lógica (48,8 MB) | No (Requiere script) | Falla ante denegación de permisos sin catch |
+| **Python 3.13 (`os.scandir` + stat en caché)** | **420,4 ms** | 237.869 archivos/s | 2,11x más lento | Solo lógica (48,8 MB) | Requiere script | Monohilo limitado por GIL |
+| **CMD (`cmd.exe /c dir /s /a /-c`)** | **1.172,5 ms** | 85.288 archivos/s | 5,89x más lento | Solo lógica (48,8 MB) | No (Desborda contexto de IA) | Inseguro ante rutas profundas |
+| **PowerShell 7 (`Get-ChildItem -Recurse`)** | **2.361,9 ms** | 42.339 archivos/s | 11,86x más lento | Solo lógica (48,8 MB) | No (Sobrecarga de `FileInfo`) | Sigue junctions por defecto; bucles |
+| **dust v1.2.6 (Rust `rayon` paralelo)** | **3.313,3 ms** | 30.181 archivos/s | 16,64x más lento | Exacta (390,6 MB) | Opcional (`-j`) | Abre identificador kernel por archivo en Win32 |
+| **Node.js v22 (`fs.readdirSync` + stat)** | **19.791,8 ms** | 5.053 archivos/s | 99,41x más lento | Solo lógica (48,8 MB) | Requiere script | `Dirent` carece de tamaño; 100k llamadas stat |
+| **Python 3.13 (`os.walk` + `os.path.getsize`)** | **20.361,3 ms** | 4.911 archivos/s | 102,27x más lento | Solo lógica (48,8 MB) | Requiere script | 100.000 llamadas `GetFileAttributesExW` |
+| **Sysinternals `du64.exe` v1.62** | **43.204,1 ms** | 2.315 archivos/s | 217,00x más lento | Exacta (390,6 MB) | No (Solo texto de consola) | Inspección de flujos monohilo por archivo |
 
 ---
 
